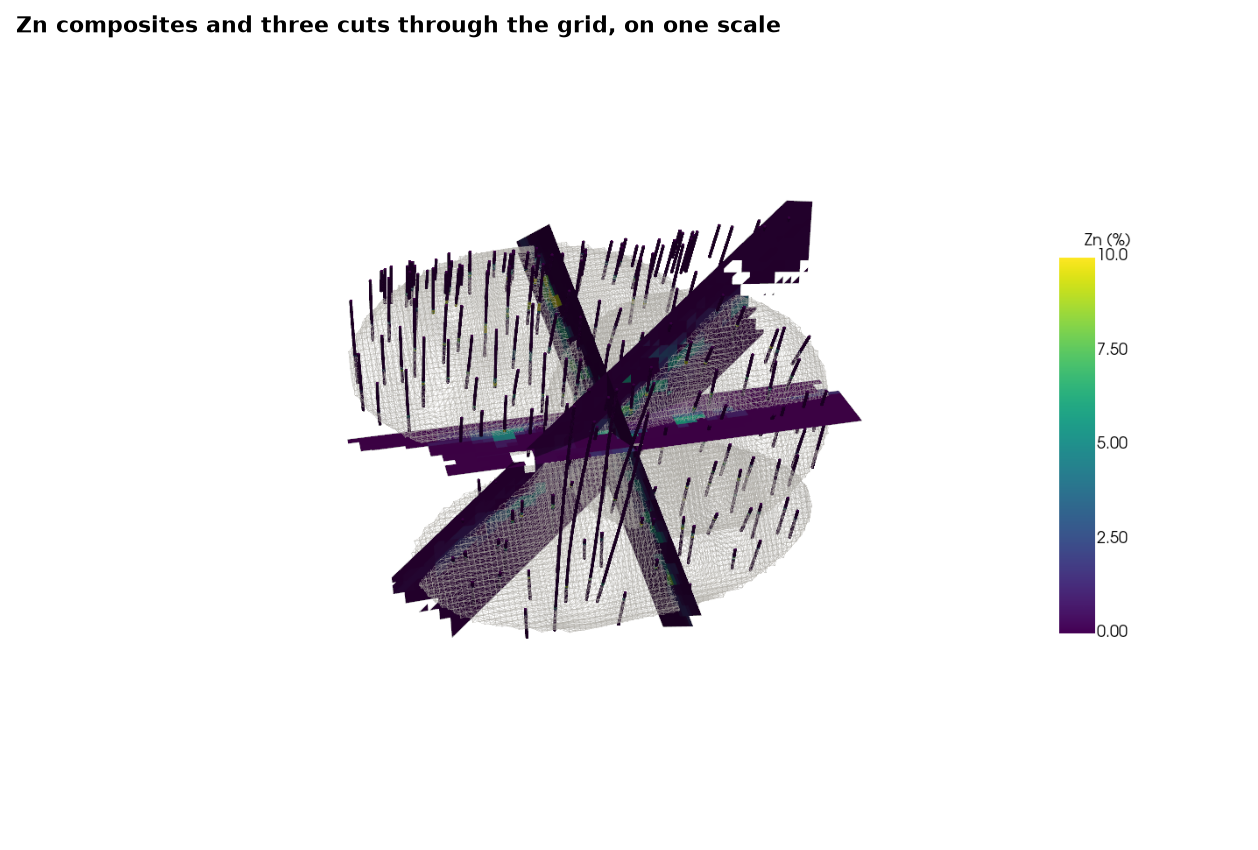
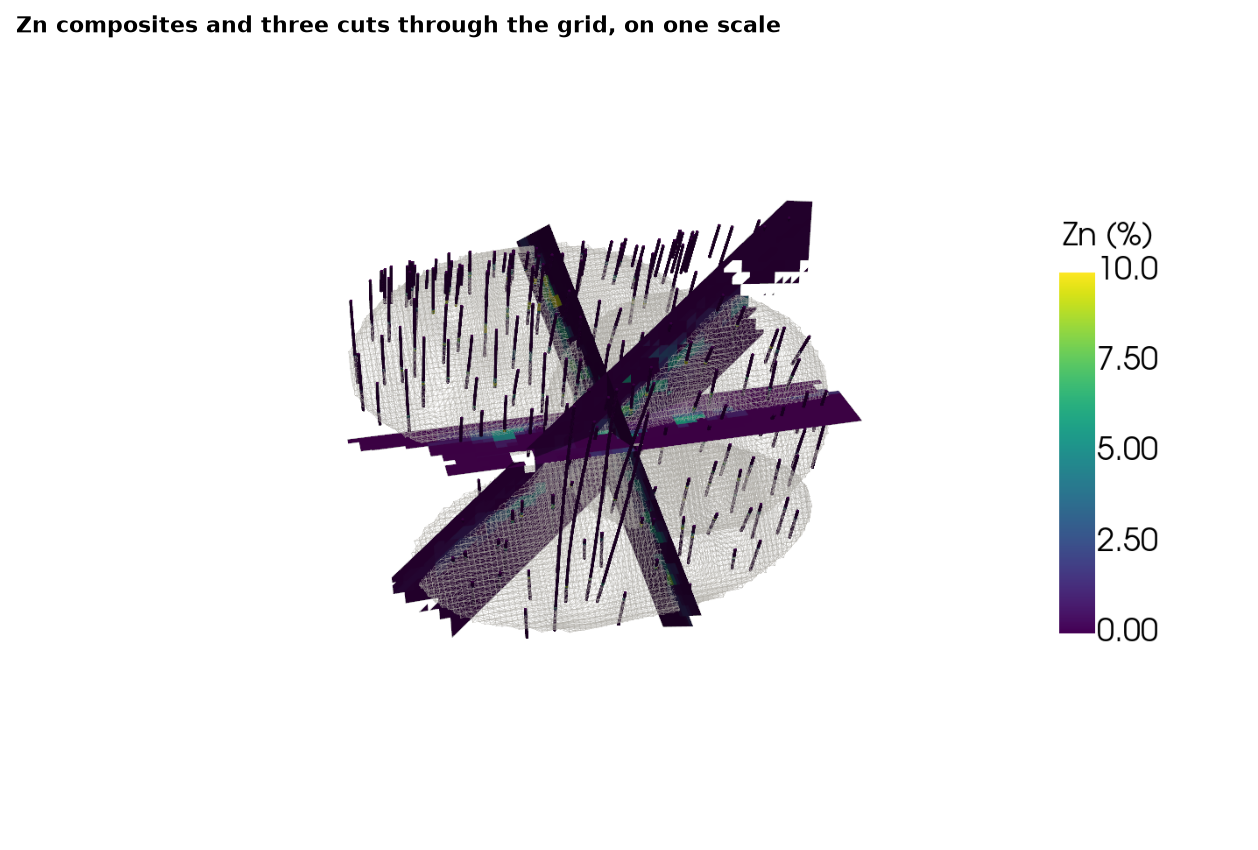
feat(plot3d): Scene.screenshot with scale and transparent background

diff --git a/python/tests/test_plot3d.py b/python/tests/test_plot3d.py
@@ -116,7 +116,7 @@ def test_plots_render_off_screen(pv):
     plotter = bt.plot3d.slices(model, values="v")
     bt.plot3d.plot(bt.PointSet(model.centroids, {"v": model["v"]}), values="v", plotter=plotter)
     assert sum(isinstance(a, pv.Actor) for a in plotter.renderer.actors.values()) == 2
-    image = plotter.screenshot(return_img=True)
+    image = plotter.plotter.screenshot(return_img=True)
     plotter.close()
     assert image.ndim == 3 and image.std() > 0
     with pytest.raises(TypeError):
@@ -167,7 +167,7 @@ def test_scene_shares_one_color_map_and_range_per_variable(pv):
     scene.add(points(g=np.array([-5.0, 20])), "g", clim=(0, 10))
     scene.add(points(g=np.array([-5.0, 30])), "g")
     assert scene.colors["g"].scalar_range == (0, 10)
-    image = scene.screenshot(return_img=True)
+    image = scene.plotter.screenshot(return_img=True)
     scene.close()
     assert image.std() > 0
 
@@ -186,7 +186,7 @@ def test_scene_colors_meshes_by_vertex_or_face_on_the_range_of_points(pv):
     assert by_vertex.n_points == 3 and by_vertex.n_cells == 1
     assert by_face.n_cells == 3 and list(by_face.cell_data["rock"]) == [0, 1, 0]
     assert dots.n_points == 4 and scene.colors["g"].scalar_range == (0, 9)
-    image = scene.screenshot(return_img=True)
+    image = scene.plotter.screenshot(return_img=True)
     scene.close()
     assert image.std() > 0
 
@@ -252,7 +252,7 @@ def test_volume_fills_each_valid_block_and_hides_nulls(pv):
     scene.add(model, "rock", style="volume")
     rock = volumes(scene, pv)[1].mapper.dataset.point_data["rock"]
     assert sorted(set(rock[rock >= 0])) == [0, 1] and scene.colors["rock"].GetNumberOfAnnotatedValues() == 2
-    assert scene.screenshot(return_img=True).std() > 0
+    assert scene.plotter.screenshot(return_img=True).std() > 0
     scene.close()
     with pytest.raises(ValueError, match="to_regular"):
         bt.plot3d.Scene(off_screen=True).add(model.mask(np.isfinite(v)), "v", style="volume")
@@ -269,3 +269,16 @@ def test_volume_above_gpu_memory_draws_coarse_while_moving(pv, monkeypatch):
         window.Render()
         assert pv.wrap(mapper.GetInput()).n_points == points and mapper.GetRequestedRenderMode() == mode
     scene.close()
+
+
+def test_screenshot_scales_and_keeps_a_transparent_background(pv, tmp_path):
+    from PIL import Image
+
+    scene = bt.plot3d.Scene(off_screen=True, window_size=(120, 80))
+    scene.add(bt.PointSet(np.eye(3), {"g": [1.0, 2, 3]}), "g")
+    plain = scene.screenshot(tmp_path / "plain.png")
+    clear = scene.screenshot(str(tmp_path / "clear.png"), scale=2, transparent=True)
+    scene.close()
+    assert plain.is_file() and Image.open(plain).size == (120, 80)
+    rgba = np.asarray(Image.open(clear))
+    assert rgba.shape == (160, 240, 4) and rgba[0, 0, 3] == rgba[-1, -1, 3] == 0 and rgba[..., 3].max() == 255

diff --git a/examples/02-data-and-geometry/21-live-scene/example_02_21.py b/examples/02-data-and-geometry/21-live-scene/example_02_21.py
@@ -4,7 +4,8 @@
 `bt.plot3d.Scene` stacks layers in one 3D view. layers colored by the same variable share its color map and range,
 so a composite and the blocks around it show one grade in one color, and null values never draw, in any style.
 `show()` opens the scene: trame in Jupyter, a native window from a script, and an interactive page with
-`show(browser=True)`. here each scene renders off-screen to an image.
+`show(browser=True)`. `screenshot` writes the current view to a PNG at any multiple of the window's resolution,
+with an optional transparent background; here each scene renders off-screen at twice its window size.
 """
 
 # %% [hidden]
@@ -15,6 +16,8 @@ HERE = Path(__file__).parent if "__file__" in globals() else Path.cwd()
 sys.path.insert(0, str(HERE.parents[1]))
 
 # %%
+import tempfile
+
 import boitata as bt
 import matplotlib.pyplot as plt
 import numpy as np
@@ -28,10 +31,10 @@ BAR = {"vertical": True, "height": 0.5, "position_x": 0.85, "position_y": 0.25}
 def image(scene, title, view=(0.8, -0.6, 0.6)):
     """Renders a scene into a matplotlib figure."""
     scene.view_vector(view)
-    pixels = scene.screenshot(return_img=True, window_size=(1400, 900))
+    path = scene.screenshot(Path(tempfile.mkdtemp()) / "scene.png", scale=2)
     scene.close()
     fig, ax = plt.subplots(figsize=(8, 5.2), layout="constrained")
-    ax.imshow(pixels)
+    ax.imshow(plt.imread(path))
     ax.set_axis_off()
     ax.set_title(title)
     return fig
@@ -58,7 +61,7 @@ near = np.all(
     axis=1,
 )
 
-scene = bt.plot3d.Scene(window_size=(1400, 900))
+scene = bt.plot3d.Scene(window_size=(700, 450))
 scene.add(
     composites.filter(near), "ZN_PCT", point_size=4, clim=(0, 10), scalar_bar_args={"title": "Zn (%)", **BAR}
 )
@@ -90,7 +93,7 @@ blocks = bt.BlockModel.from_meshes(
 blocks = blocks.mask(np.asarray(blocks["domain"], dtype=object) != "host")
 blocks = blocks.with_column("lens", blocks["domain"])
 
-scene = bt.plot3d.Scene(window_size=(1400, 900))
+scene = bt.plot3d.Scene(window_size=(700, 450))
 scene.add(blocks, "lens", style="wireframe", opacity=0.3, scalar_bar_args={"title": "", **BAR})
 scene.add(composites, "lens", point_size=5)
 print(f"{len(blocks):,} sub-blocks, {(names != '').sum():,} of {len(composites):,} composites in a lens")

diff --git a/python/boitata/plot3d.py b/python/boitata/plot3d.py
@@ -221,7 +221,7 @@ class Scene:
     Attributes
     ----------
     plotter : pyvista.Plotter
-        Attributes the scene does not have are looked up on it (``screenshot``, ``view_vector``, ...).
+        Attributes the scene does not have are looked up on it (``view_vector``, ``close``, ...).
     colors : dict of str to pyvista.LookupTable
         Color map and range of each variable, shared by every layer it colors.
     """
@@ -372,7 +372,7 @@ class Scene:
         browser : bool, default False
             Writes the scene to an interactive HTML page with trame and opens it in the web browser.
         **kwargs
-            Passed to ``plotter.show``.
+            Passed to ``plotter.show``; ``auto_close`` defaults to False, so `screenshot` works after ``q``.
 
         Returns
         -------
@@ -380,13 +380,36 @@ class Scene:
             The HTML page when `browser`, else what ``plotter.show`` returns.
         """
         if not browser:
-            return self.plotter.show(**kwargs)
+            return self.plotter.show(**{"auto_close": False, **kwargs})
         path = Path(tempfile.mkdtemp()) / "scene.html"
         try:
             getattr(self.plotter, "trame", self.plotter).export_html(path)
         except ImportError as e:
             raise ImportError("Scene.show(browser=True) needs trame: pip install 'pyvista[jupyter]'") from e
         webbrowser.open(path.as_uri())
+        return path
+
+    def screenshot(self, path, *, scale=1, transparent=False):
+        """Writes the scene's current view to an image.
+
+        Works off-screen, while a trame view is open, and after the native window of `show` is closed with ``q``;
+        its close button destroys the window, so take screenshots before.
+
+        Parameters
+        ----------
+        path : str or pathlib.Path
+            Image file; ``.png`` keeps transparency.
+        scale : int, default 1
+            Resolution multiplier on the window size.
+        transparent : bool, default False
+            Transparent background.
+
+        Returns
+        -------
+        pathlib.Path
+        """
+        path = Path(path)
+        self.plotter.screenshot(path, transparent_background=transparent, return_img=False, scale=scale)
         return path
 
 

diff --git a/examples/02-data-and-geometry/23-block-volumes/example_02_23.py b/examples/02-data-and-geometry/23-block-volumes/example_02_23.py
@@ -28,7 +28,7 @@ BAR = {"vertical": True, "height": 0.5, "position_x": 0.85, "position_y": 0.25}
 def image(scene, title, view=(0.8, -0.6, 0.6)):
     """Renders a scene into a matplotlib figure."""
     scene.view_vector(view)
-    pixels = scene.screenshot(return_img=True, window_size=(1400, 900))
+    pixels = scene.plotter.screenshot(return_img=True, window_size=(1400, 900))
     scene.close()
     fig, ax = plt.subplots(figsize=(8, 5.2), layout="constrained")
     ax.imshow(pixels)

diff --git a/examples/02-data-and-geometry/22-meshes-and-points/example_02_22.py b/examples/02-data-and-geometry/22-meshes-and-points/example_02_22.py
@@ -28,7 +28,7 @@ BAR = {"vertical": True, "height": 0.35, "position_x": 0.86}
 def image(scene, title, view=(0.8, -0.6, 0.45)):
     """Renders a scene into a matplotlib figure."""
     scene.view_vector(view)
-    pixels = scene.screenshot(return_img=True, window_size=(1400, 900))
+    pixels = scene.plotter.screenshot(return_img=True, window_size=(1400, 900))
     scene.close()
     fig, ax = plt.subplots(figsize=(8, 5.2), layout="constrained")
     ax.imshow(pixels)

diff --git a/python/tests/test_api.py b/python/tests/test_api.py
@@ -39,6 +39,7 @@ NOT_PLOTS = {
     "plot3d.to_pyvista",
     "plot3d.Scene.add",
     "plot3d.Scene.show",
+    "plot3d.Scene.screenshot",
 }
 # `fit` building a new model from experimental variograms, not fitting the object in place.
 MODEL_FITS = {"Variogram", "ExperimentalVariogram", "Coregionalization"}

diff --git a/examples/02-data-and-geometry/21-live-scene/README.md b/examples/02-data-and-geometry/21-live-scene/README.md
@@ -3,11 +3,14 @@
 `bt.plot3d.Scene` stacks layers in one 3D view. layers colored by the same variable share its color map and range,
 so a composite and the blocks around it show one grade in one color, and null values never draw, in any style.
 `show()` opens the scene: trame in Jupyter, a native window from a script, and an interactive page with
-`show(browser=True)`. here each scene renders off-screen to an image.
+`show(browser=True)`. `screenshot` writes the current view to a PNG at any multiple of the window's resolution,
+with an optional transparent background; here each scene renders off-screen at twice its window size.
 
 <details><summary>Python</summary>
 
 ```python
+import tempfile
+
 import boitata as bt
 import matplotlib.pyplot as plt
 import numpy as np
@@ -21,10 +24,10 @@ BAR = {"vertical": True, "height": 0.5, "position_x": 0.85, "position_y": 0.25}
 def image(scene, title, view=(0.8, -0.6, 0.6)):
     """Renders a scene into a matplotlib figure."""
     scene.view_vector(view)
-    pixels = scene.screenshot(return_img=True, window_size=(1400, 900))
+    path = scene.screenshot(Path(tempfile.mkdtemp()) / "scene.png", scale=2)
     scene.close()
     fig, ax = plt.subplots(figsize=(8, 5.2), layout="constrained")
-    ax.imshow(pixels)
+    ax.imshow(plt.imread(path))
     ax.set_axis_off()
     ax.set_title(title)
     return fig
@@ -54,7 +57,7 @@ near = np.all(
     axis=1,
 )
 
-scene = bt.plot3d.Scene(window_size=(1400, 900))
+scene = bt.plot3d.Scene(window_size=(700, 450))
 scene.add(
     composites.filter(near), "ZN_PCT", point_size=4, clim=(0, 10), scalar_bar_args={"title": "Zn (%)", **BAR}
 )
@@ -97,7 +100,7 @@ blocks = bt.BlockModel.from_meshes(
 blocks = blocks.mask(np.asarray(blocks["domain"], dtype=object) != "host")
 blocks = blocks.with_column("lens", blocks["domain"])
 
-scene = bt.plot3d.Scene(window_size=(1400, 900))
+scene = bt.plot3d.Scene(window_size=(700, 450))
 scene.add(blocks, "lens", style="wireframe", opacity=0.3, scalar_bar_args={"title": "", **BAR})
 scene.add(composites, "lens", point_size=5)
 print(f"{len(blocks):,} sub-blocks, {(names != '').sum():,} of {len(composites):,} composites in a lens")

diff --git a/examples/02-data-and-geometry/23-block-volumes/README.md b/examples/02-data-and-geometry/23-block-volumes/README.md
@@ -21,7 +21,7 @@ BAR = {"vertical": True, "height": 0.5, "position_x": 0.85, "position_y": 0.25}
 def image(scene, title, view=(0.8, -0.6, 0.6)):
     """Renders a scene into a matplotlib figure."""
     scene.view_vector(view)
-    pixels = scene.screenshot(return_img=True, window_size=(1400, 900))
+    pixels = scene.plotter.screenshot(return_img=True, window_size=(1400, 900))
     scene.close()
     fig, ax = plt.subplots(figsize=(8, 5.2), layout="constrained")
     ax.imshow(pixels)

diff --git a/examples/02-data-and-geometry/22-meshes-and-points/README.md b/examples/02-data-and-geometry/22-meshes-and-points/README.md
@@ -21,7 +21,7 @@ BAR = {"vertical": True, "height": 0.35, "position_x": 0.86}
 def image(scene, title, view=(0.8, -0.6, 0.45)):
     """Renders a scene into a matplotlib figure."""
     scene.view_vector(view)
-    pixels = scene.screenshot(return_img=True, window_size=(1400, 900))
+    pixels = scene.plotter.screenshot(return_img=True, window_size=(1400, 900))
     scene.close()
     fig, ax = plt.subplots(figsize=(8, 5.2), layout="constrained")
     ax.imshow(pixels)
